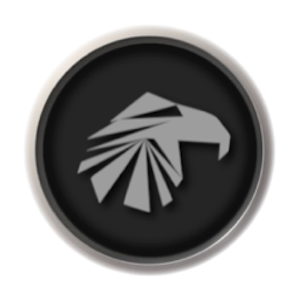
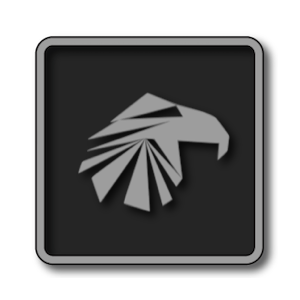
Change Linux link

diff --git a/README.md b/README.md
@@ -40,6 +40,6 @@ macOS Utilities
 -|-|-|-
 <a href="https://github.com/chris1111/D-LinkUtility-Package"><img src="https://github.com/chris1111/chris1111/blob/master/PICS/Wifi Mediatek macOS.png" width="250px"></a>|<a href="https://github.com/chris1111/HP-Probook-EliteBook-Package-Creator-OC"><img src="https://github.com/chris1111/chris1111/blob/master/PICS/HP-Probook-EliteBook-Package-Creator-OC.png" width="250px"></a>|<a href="https://github.com/chris1111/Apple-Create-Install-Media"><img src="https://github.com/chris1111/chris1111/blob/master/PICS/Apple Create Install Media.png" width="300px"></a>|<a href="https://github.com/chris1111/Create-Windows-USB"><img src="https://github.com/chris1111/chris1111/blob/master/PICS/Create-Windows-USB.png" width="250px"></a>
 
-[Linux_Grey_Rond](https://github.com/chris1111/Linux_Grey_Rond)|[Wimlib Imagex Package](https://github.com/chris1111/Wimlib-Imagex-Package)|[OpenCore Config Validator](https://github.com/chris1111/Config-Validator)|[Softwareupdate full installer](https://github.com/chris1111/Softwareupdate-full-installer)
+[Linux Square Grey](https://github.com/chris1111/Linux_Square_Grey)|[Wimlib Imagex Package](https://github.com/chris1111/Wimlib-Imagex-Package)|[OpenCore Config Validator](https://github.com/chris1111/Config-Validator)|[Softwareupdate full installer](https://github.com/chris1111/Softwareupdate-full-installer)
 -|-|-|-
-<a href="https://github.com/chris1111/Linux_Grey_Rond"><img src="https://github.com/chris1111/chris1111/blob/master/PICS/Garuda.png" width="250px"></a>|<a href="https://github.com/chris1111/Wimlib-Imagex-Package"><img src="https://github.com/chris1111/chris1111/blob/master/PICS/Wimlib imagex Packager.png" width="250px"></a>|<a href="https://github.com/chris1111/Config-Validator"><img src="https://github.com/chris1111/chris1111/blob/master/PICS/Config Validator.png" width="250px"></a>|<a href="https://github.com/chris1111/Softwareupdate-full-installer"><img src="https://github.com/chris1111/chris1111/blob/master/PICS/SoftwareUpdate.png" width="250px"></a>
+<a href="https://github.com/chris1111/Linux_Square_Grey"><img src="https://github.com/chris1111/chris1111/blob/master/PICS/Garuda.png" width="250px"></a>|<a href="https://github.com/chris1111/Wimlib-Imagex-Package"><img src="https://github.com/chris1111/chris1111/blob/master/PICS/Wimlib imagex Packager.png" width="250px"></a>|<a href="https://github.com/chris1111/Config-Validator"><img src="https://github.com/chris1111/chris1111/blob/master/PICS/Config Validator.png" width="250px"></a>|<a href="https://github.com/chris1111/Softwareupdate-full-installer"><img src="https://github.com/chris1111/chris1111/blob/master/PICS/SoftwareUpdate.png" width="250px"></a>
